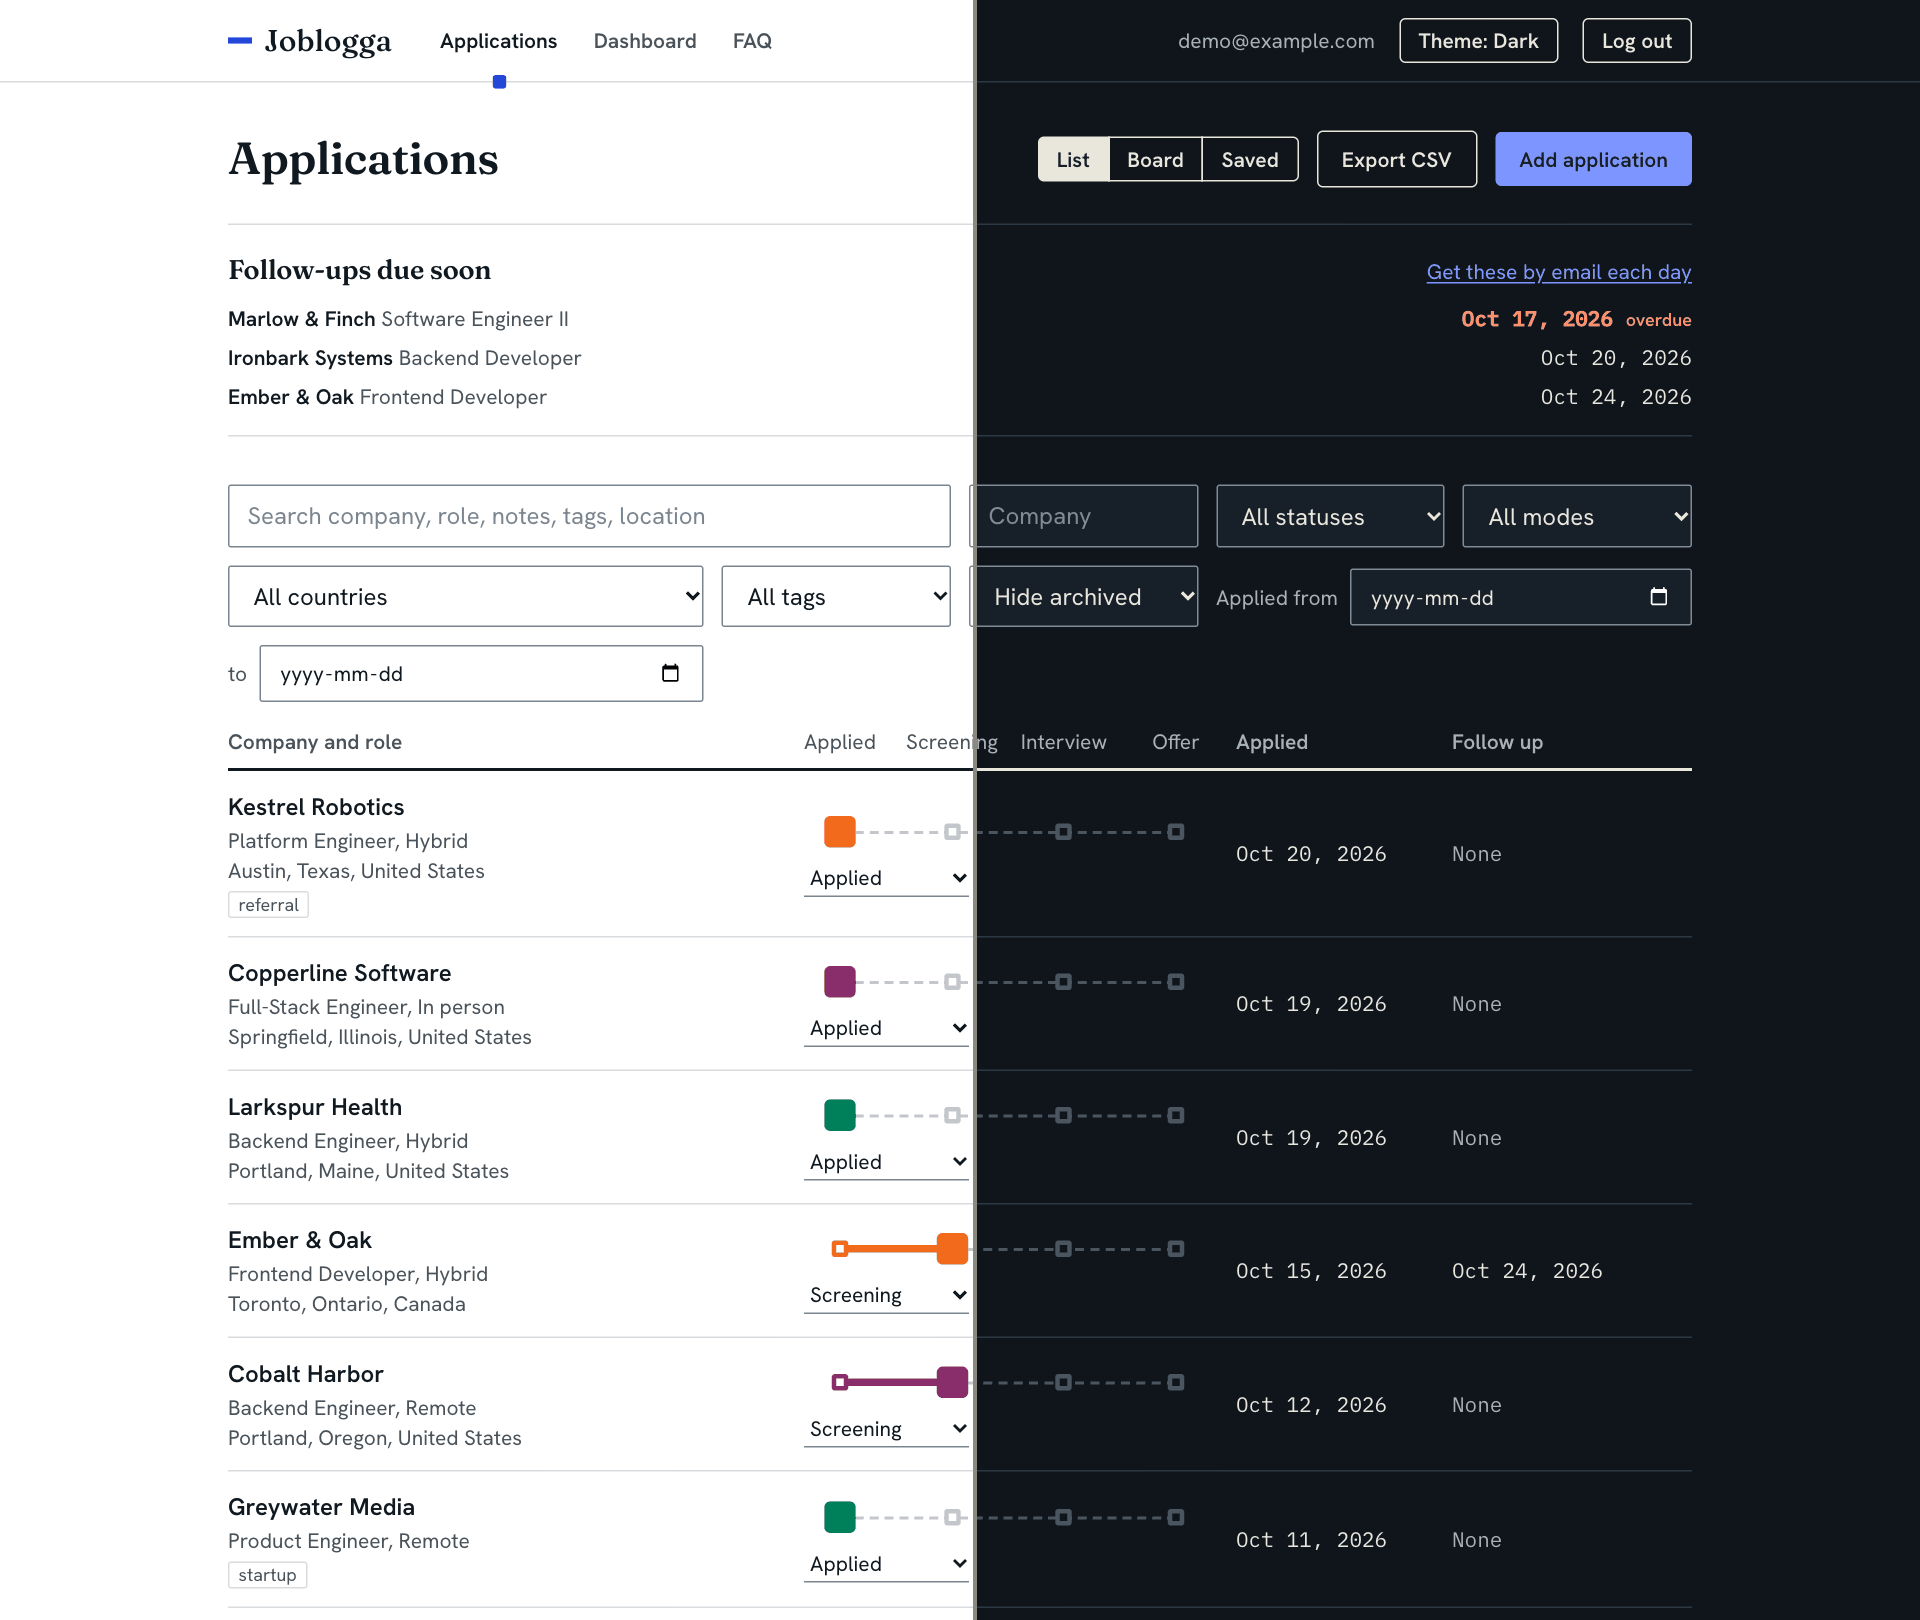
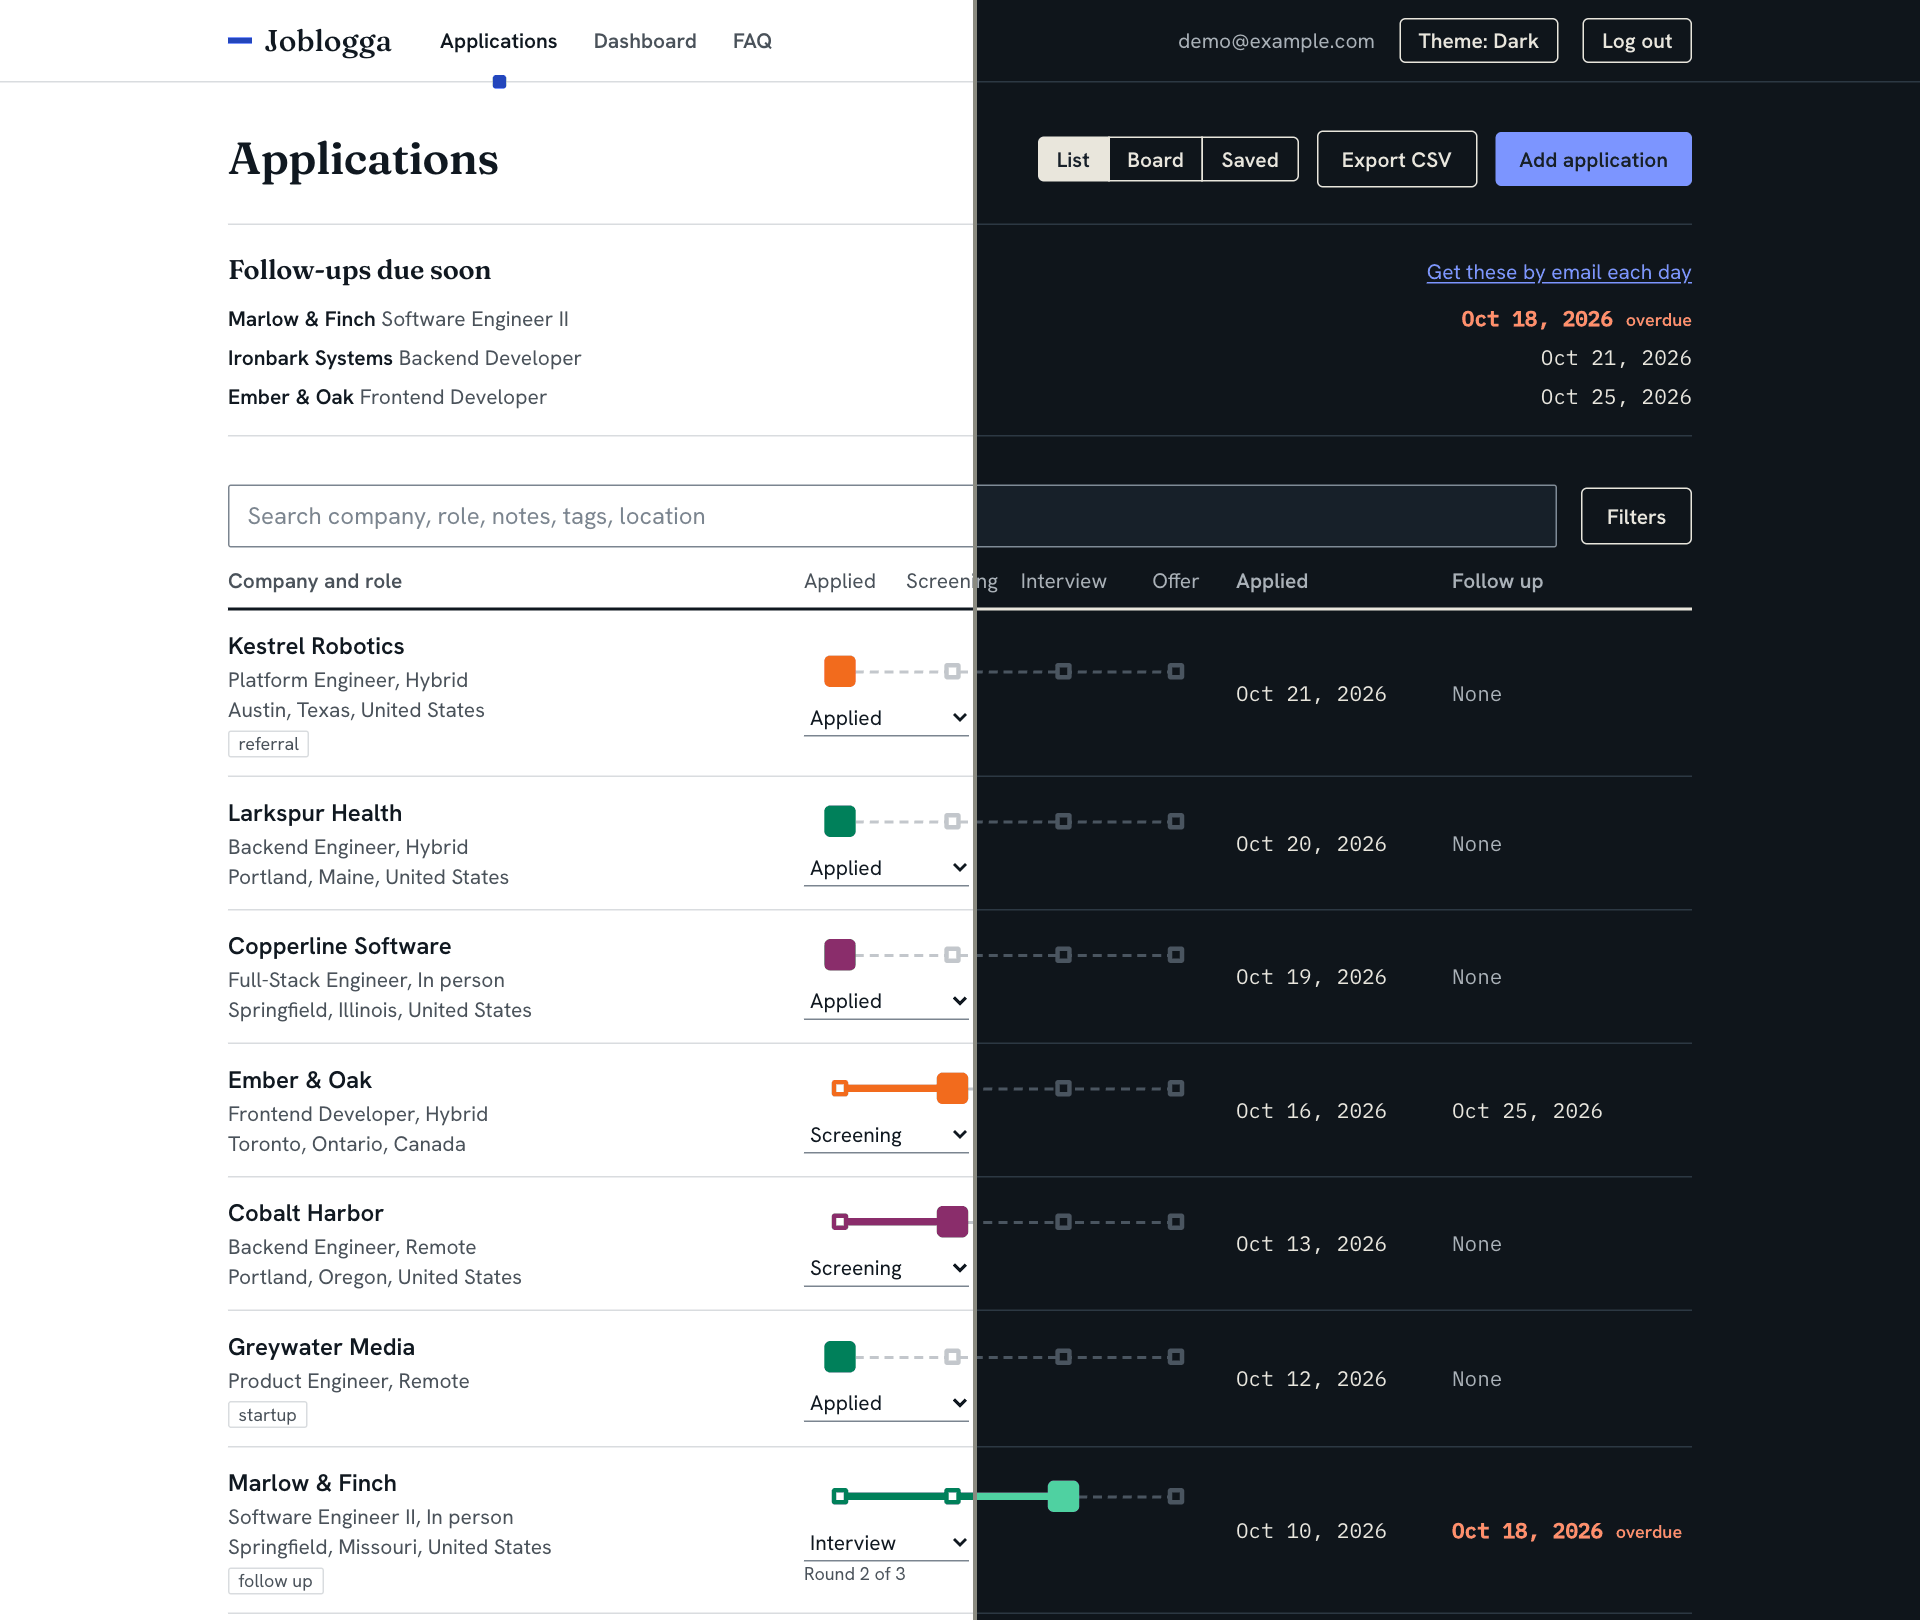
README: show the new look (#8)
* README: retake screenshots in the new look and add the application detail page

* Changelog: README pictures are not part of the v0.2.0 release notes

---------

diff --git a/README.md b/README.md
@@ -73,11 +73,11 @@ A drop moves the card immediately and puts it back with an error if the server r
 
 Each picture below is shown in your GitHub theme: the light version if GitHub is light, the dark one if it is dark (where a viewer does not support that, the light one is shown). They come from a demo account with made-up companies, seeded by [`docs/screenshots/seed_demo.py`](docs/screenshots/seed_demo.py), and can be retaken after a release by following the [short note beside it](docs/screenshots/README.md).
 
-**Applications list.** Each application is a route with four stops, so you see where it stands (and, for a closed one, how far it got) at a glance: the place (a city name used in several states, like Springfield or Portland, is told apart by its state), tags, and follow-ups that are due or overdue rise to the top.
+**Applications list.** Each application is a route with four stops, so you see where it stands (and, for a closed one, how far it got) at a glance. Only the search box and a Filters button sit above the list; the button opens a panel with the other filters and shows how many are on. Each row also shows the place (a city name used in several states, like Springfield or Portland, is told apart by its state), tags, and follow-ups that are due or overdue rise to the top.
 
 <picture>
   <source media="(prefers-color-scheme: dark)" srcset="docs/screenshots/applications-list-dark.png">
-  <img alt="The applications list: a follow-ups panel with one overdue date in red, search and filter controls, and a row per application with a route of four stops, a status, the applied date and tags" src="docs/screenshots/applications-list-light.png">
+  <img alt="The applications list: a follow-ups panel with one overdue date in red, a search box with a Filters button, and a row per application with a route of four stops, a status, the applied date and tags" src="docs/screenshots/applications-list-light.png">
 </picture>
 
 **Kanban board.** Drag a card to change its status (mouse, touch or keyboard). The board is a strip of columns that scrolls sideways; six are shown here.
@@ -85,6 +85,13 @@ Each picture below is shown in your GitHub theme: the light version if GitHub is
 <picture>
   <source media="(prefers-color-scheme: dark)" srcset="docs/screenshots/kanban-board-dark.png">
   <img alt="The Kanban board with a column per status (Saved, Applied, Screening, Interview, Offer, Offer accepted) and a card for each application, showing tags, interview round and an overdue follow-up" src="docs/screenshots/kanban-board-light.png">
+</picture>
+
+**Application detail.** The route sits under the title, the status history is a vertical route (newest stop on top), and the form is three stops on a line: the job, where it stands, and labels and notes. Each application keeps one line color.
+
+<picture>
+  <source media="(prefers-color-scheme: dark)" srcset="docs/screenshots/application-detail-dark.png">
+  <img alt="An application's detail page: the title, a route with four stops ending at Interview, the edit form in three sections (The job, Where it stands, Labels and notes) on a vertical line, and a contacts section and a vertical status history on the right" src="docs/screenshots/application-detail-light.png">
 </picture>
 
 **Dashboard.** This week against your weekly goal, response rate, applications per week, where applications stand, time spent in each stage, and response rate by resume version. Each chart has a table twin; the resume card is shown as its table here, where a version with too few applications reads "too few to judge" instead of a misleading percentage.

diff --git a/docs/screenshots/README.md b/docs/screenshots/README.md
@@ -37,5 +37,5 @@ python3 docs/screenshots/optimize.py
 ## Sizes and choices
 
 - Pages are shot at 1280 CSS pixels wide, at 1.5x so text stays sharp (1920 pixels in the file). The Kanban board is the exception, at 1340: it is a strip of nine columns that scrolls sideways, and 1340 ends the picture exactly after the sixth full column instead of cutting one in half.
-- The list and board are the top of the page, not the whole page. The dashboard, offers and the landing page's hero are shown whole. On the dashboard the resume-version card is shown as its table, because that is where a version with too few applications is labelled "too few to judge".
+- The list and board are the top of the page, not the whole page. The application detail shot is Marlow & Finch (an interview at round 2 of 3 with an overdue follow-up), looked up by name. The detail page, dashboard, offers and the landing page's hero are shown whole. On the dashboard the resume-version card is shown as its table, because that is where a version with too few applications is labelled "too few to judge".
 - Each page is shot in light and dark with the theme set explicitly (the Theme button's saved choice), not left to the system preference. The landing page has one version, since its two themes differ only in colour.
